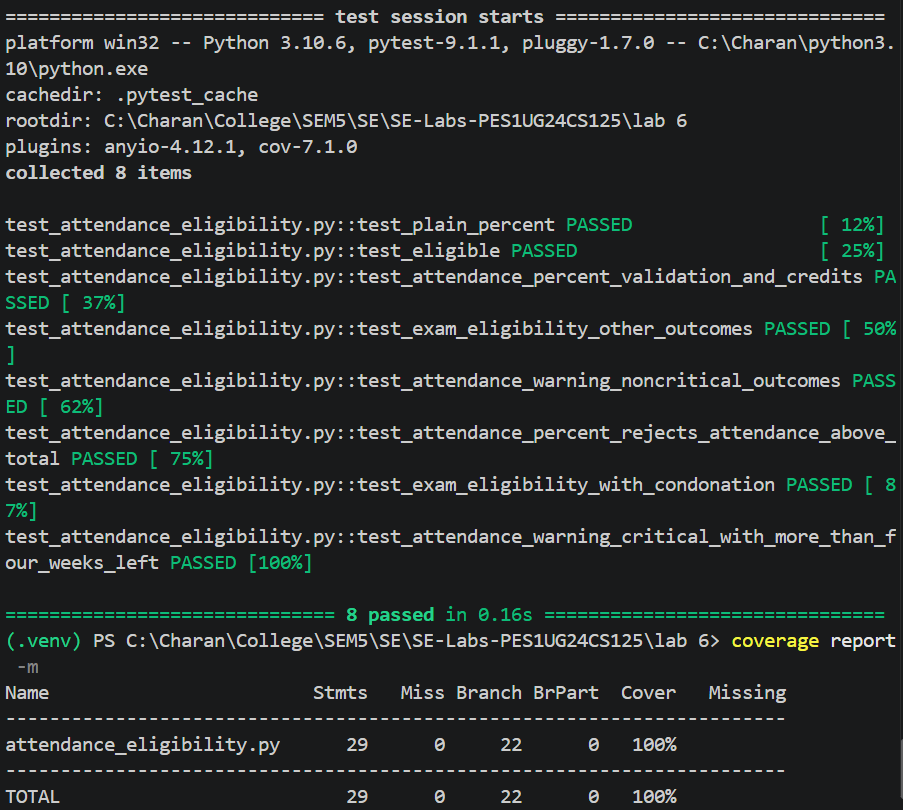
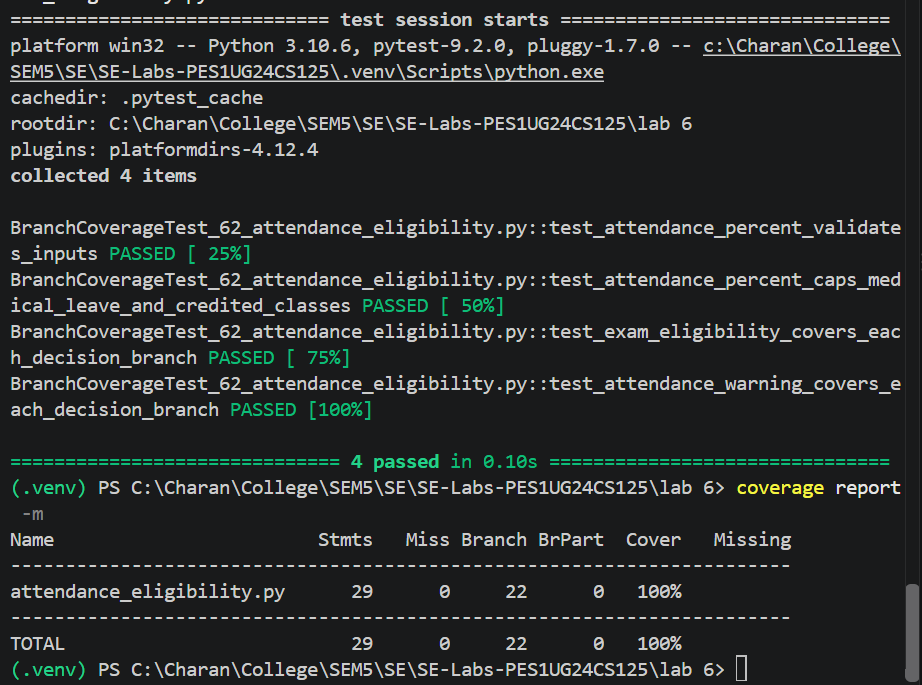
Branch coverage updated

Changed region(s): [[0.0, 0.0, 0.9922, 1.0], [0.9612, 0.8584, 1.0, 1.0]]

diff --git a/lab 6/BranchCoverageTest_62_attendance_eligibility.py b/lab 6/BranchCoverageTest_62_attendance_eligibility.py
@@ -1,0 +1,37 @@
+import pytest
+
+from attendance_eligibility import (
+    attendance_percent,
+    attendance_warning,
+    exam_eligibility,
+)
+
+
+def test_attendance_percent_validates_inputs():
+    with pytest.raises(ValueError, match="invalid total"):
+        attendance_percent(0, 0, 0)
+    with pytest.raises(ValueError, match="invalid attended count"):
+        attendance_percent(-1, 10, 0)
+    with pytest.raises(ValueError, match="invalid attended count"):
+        attendance_percent(11, 10, 0)
+
+
+def test_attendance_percent_caps_medical_leave_and_credited_classes():
+    assert attendance_percent(10, 20, 0) == 50
+    assert attendance_percent(10, 20, 7) == 75
+    assert attendance_percent(19, 20, 3) == 100
+
+
+def test_exam_eligibility_covers_each_decision_branch():
+    assert exam_eligibility(80, False, False) == "fees pending"
+    assert exam_eligibility(75, False, True) == "eligible"
+    assert exam_eligibility(65, True, True) == "eligible"
+    assert exam_eligibility(65, False, True) == "condonation required"
+    assert exam_eligibility(64, False, True) == "detained"
+
+
+def test_attendance_warning_covers_each_decision_branch():
+    assert attendance_warning(85, 0) is None
+    assert attendance_warning(74, 5) == "critical"
+    assert attendance_warning(74, 4) == "final notice"
+    assert attendance_warning(75, 0) == "reminder"

diff --git a/lab 6/test_attendance_eligibility.py b/lab 6/test_attendance_eligibility.py
@@ -28,16 +28,3 @@ def test_attendance_warning_noncritical_outcomes():
     assert attendance_warning(85, 0) is None
     assert attendance_warning(74, 4) == "final notice"
     assert attendance_warning(75, 0) == "reminder"
-
-
-def test_attendance_percent_rejects_attendance_above_total():
-    with pytest.raises(ValueError, match="invalid attended count"):
-        attendance_percent(11, 10, 0)
-
-
-def test_exam_eligibility_with_condonation():
-    assert exam_eligibility(65, True, True) == "eligible"
-
-
-def test_attendance_warning_critical_with_more_than_four_weeks_left():
-    assert attendance_warning(74, 5) == "critical"

diff --git a/lab 6/README.md b/lab 6/README.md
@@ -12,6 +12,7 @@ A small Python module that calculates a student's attendance percentage with med
 |------|-------------|
 | `attendance_eligibility.py` | The module under test |
 | `test_attendance_eligibility.py` | Starter test file |
+| `BranchCoverageTest_62_application.py` | Tests covering the module's decision branches |
 
 Keep all your Lab 6 work in this `LAB6` folder. Lab 7 will be added to this repo later.
 
